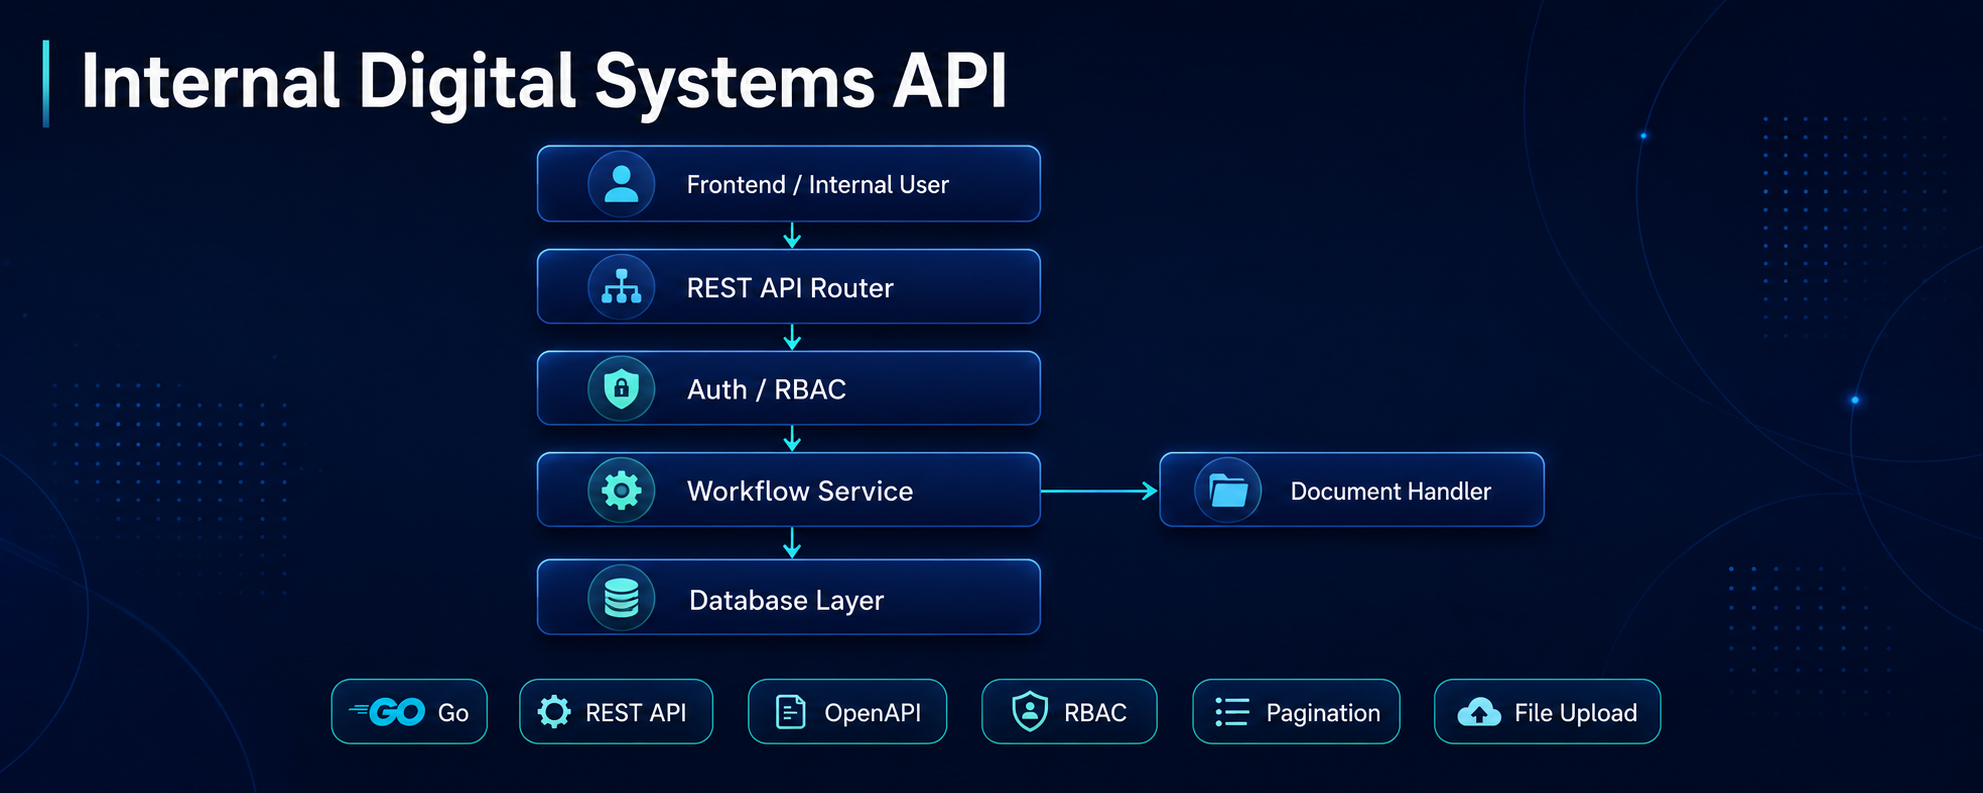
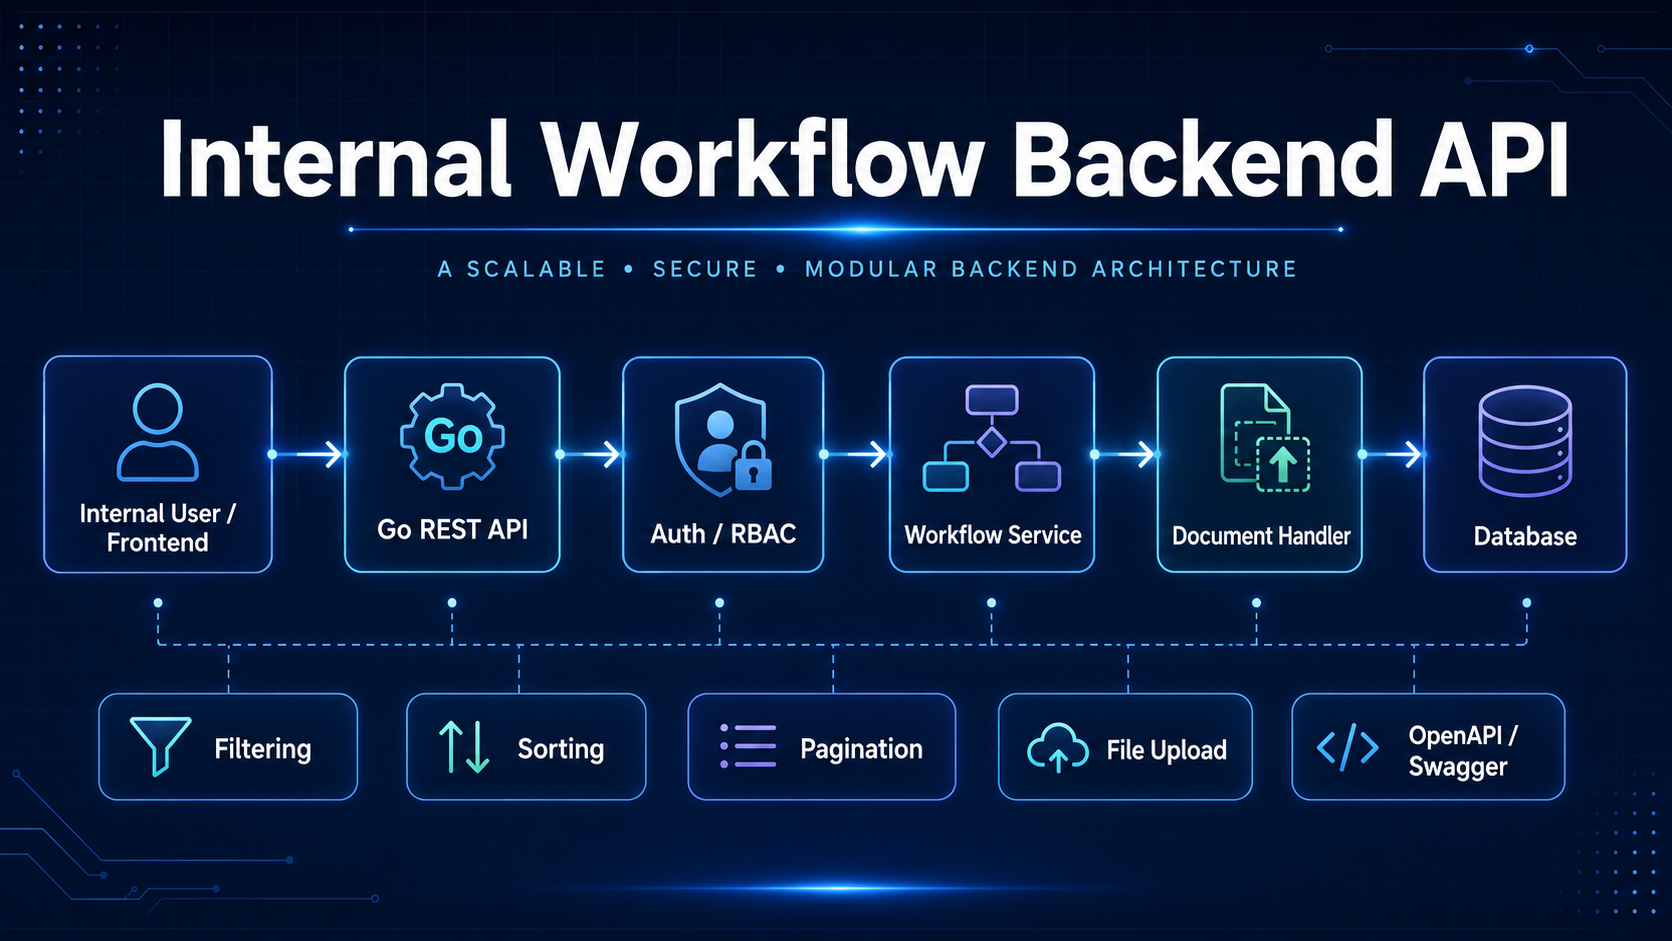
UI/UX audit: fix header overflow, section heights, layout polish (#56)
* fix: correct invalid Tailwind class and heading-order inconsistency

- introduction.component.html: lg:max-width-[550px] -> lg:max-w-[550px]
  (two spots). max-width is not a Tailwind utility prefix; the class
  emitted no CSS, silently killing the hero width cap.
- portfolio.component.html: Other project card titles changed from h4
  to h3 to match the identical Featured cards; fixes heading-order break
  for screen readers.
- docs/product/FEATURE_SPEC.md: add FR-F00H-11..15, FR-F00D-3..4, F00N
  feature block for footer + nav anchors; maps to issues #52-55.

Closes #52

* fix: add focus-visible to social links and remove target=_blank from mailto

- about-me.component.html: all 5 social icon anchors now carry
  focus-visible:outline-2/offset-2 using accent-hover tokens,
  matching the focus-ring pattern on form inputs and app-button.
  Keyboard users can now see focus when tabbing through social links.
- about-me.component.html: remove target="_blank" and rel="noopener noreferrer"
  from the mailto: link; these attributes are correct for https externals
  but spawn a blank tab on mailto: in many browsers.
- contact.component.html: mailto link already had no target="_blank" — no change.
- Contrast audit: pill (#4d4d4d on rgba overlay) passes 5.42:1 min;
  ocean accents (#00e5ff, #80deea on #002030) pass 10.9:1. No token
  changes required.

Closes #53

* refactor: add radius/shadow/swatch tokens and clean up hero widths
[…]

diff --git a/src/app/components/footer/footer.component.spec.ts b/src/app/components/footer/footer.component.spec.ts
@@ -1,0 +1,49 @@
+import { ComponentFixture, TestBed } from '@angular/core/testing';
+import { FooterComponent } from './footer.component';
+import { LanguageService } from '../../services/language.service';
+
+describe('FooterComponent', () => {
+  let component: FooterComponent;
+  let fixture: ComponentFixture<FooterComponent>;
+  let langServiceSpy: jasmine.SpyObj<LanguageService>;
+
+  beforeEach(async () => {
+    langServiceSpy = jasmine.createSpyObj<LanguageService>('LanguageService', ['t']);
+    langServiceSpy.t.and.callFake((key: string) => key);
+
+    await TestBed.configureTestingModule({
+      imports: [FooterComponent],
+      providers: [{ provide: LanguageService, useValue: langServiceSpy }],
+    }).compileComponents();
+
+    fixture = TestBed.createComponent(FooterComponent);
+    component = fixture.componentInstance;
+    fixture.detectChanges();
+  });
+
+  it('should create', () => {
+    expect(component).toBeTruthy();
+  });
+
+  it('should render a <footer> semantic element', () => {
+    const el: HTMLElement = fixture.nativeElement;
+    expect(el.querySelector('footer')).toBeTruthy();
+  });
+
+  it('should call t() for copyright and backToTop keys', () => {
+    expect(langServiceSpy.t).toHaveBeenCalledWith('footer.copyright');
+    expect(langServiceSpy.t).toHaveBeenCalledWith('footer.backToTop');
+  });
+
+  it('should have a back-to-top button with an aria-label', () => {
+    const btn: HTMLButtonElement | null = fixture.nativeElement.querySelector('button');
+    expect(btn).toBeTruthy();
+    expect(btn?.getAttribute('aria-label')).toBeTruthy();
+  });
+
+  it('scrollToTop() should call window.scrollTo', () => {
+    const spy = spyOn(window, 'scrollTo');
+    component.scrollToTop();
+    expect(spy).toHaveBeenCalled();
+  });
+});

diff --git a/src/app/components/header/header.component.html b/src/app/components/header/header.component.html
@@ -75,7 +75,7 @@
           id="hamburger"
           name="hamburger"
           type="button"
-          class="absolute right-4 block lg:hidden"
+          class="absolute right-4 block xl:hidden"
           aria-label="Toggle navigation menu"
           aria-controls="nav-menu"
           [attr.aria-expanded]="isMenuOpen"
@@ -95,10 +95,10 @@
       <nav
         id="nav-menu"
         [attr.aria-hidden]="!isMenuOpen"
-        class="absolute right-4 top-full hidden w-[calc(100vw-2rem)] max-w-[320px] rounded-xl border shadow-xl backdrop-blur-md bg-light-background-primary/95 dark:bg-dark-background-primary/95 border-light-border-primary dark:border-dark-border-primary lg:static lg:block lg:w-auto lg:max-w-none lg:border-0 lg:bg-transparent lg:shadow-none dark:lg:bg-transparent"
+        class="absolute right-4 top-full hidden w-[calc(100vw-2rem)] max-w-[320px] rounded-xl border shadow-xl backdrop-blur-md bg-light-background-primary/95 dark:bg-dark-background-primary/95 border-light-border-primary dark:border-dark-border-primary xl:static xl:block xl:w-auto xl:max-w-none xl:border-0 xl:bg-transparent xl:shadow-none dark:xl:bg-transparent"
       >
         <ul
-          class="block font-mono text-base font-bold lg:flex lg:justify-end lg:gap-[30px]"
+          class="block font-mono text-base font-bold xl:flex xl:justify-end xl:items-center"
         >
           <li class="group">
             <a
@@ -106,7 +106,7 @@
               routerLinkActive #rlaAbout="routerLinkActive"
               [routerLinkActiveOptions]="{exact: true}"
               [attr.aria-current]="rlaAbout.isActive ? 'page' : null"
-              class="group-hover:text-light-accent-primary dark:group-hover:text-dark-accent-primary transition-all mx-8 flex items-center gap-[10px] py-2 duration-300 ease-in-out group-hover:translate-y-[-2px]"
+              class="group-hover:text-light-accent-primary dark:group-hover:text-dark-accent-primary transition-all mx-8 xl:mx-3 flex items-center gap-[10px] py-2 duration-300 ease-in-out group-hover:translate-y-[-2px] whitespace-nowrap"
               ><span
                 class="text-light-accent-hover dark:text-dark-accent-hover font-bold"
                 >01.</span
@@ -115,15 +115,37 @@
           </li>
           <li class="group">
             <a
+              [routerLink]="['/']"
+              [fragment]="'section-experience'"
+              class="group-hover:text-light-accent-primary dark:group-hover:text-dark-accent-primary transition-all mx-8 xl:mx-3 flex items-center gap-[10px] py-2 duration-300 ease-in-out group-hover:translate-y-[-2px] whitespace-nowrap"
+              ><span
+                class="text-light-accent-hover dark:text-dark-accent-hover font-bold"
+                >02.</span
+              >{{ t('nav.experience') }}</a
+            >
+          </li>
+          <li class="group">
+            <a
               routerLink="/portfolio"
               routerLinkActive #rlaPortfolio="routerLinkActive"
               [routerLinkActiveOptions]="{exact: true}"
               [attr.aria-current]="rlaPortfolio.isActive ? 'page' : null"
-              class="group-hover:text-light-accent-primary dark:group-hover:text-dark-accent-primary transition-all mx-8 flex items-center gap-[10px] py-2 duration-300 ease-in-out group-hover:translate-y-[-2px]"
+              class="group-hover:text-light-accent-primary dark:group-hover:text-dark-accent-primary transition-all mx-8 xl:mx-3 flex items-center gap-[10px] py-2 duration-300 ease-in-out group-hover:translate-y-[-2px] whitespace-nowrap"
               ><span
                 class="text-light-accent-hover dark:text-dark-accent-hover font-bold"
-                >02.</span
+                >03.</span
               >{{ t('nav.portfolio') }}</a
+            >
+          </li>
+          <li class="group">
+            <a
+              [routerLink]="['/']"
+              [fragment]="'section-certifications'"
+              class="group-hover:text-light-accent-primary dark:group-hover:text-dark-accent-primary transition-all mx-8 xl:mx-3 flex items-center gap-[10px] py-2 duration-300 ease-in-out group-hover:translate-y-[-2px] whitespace-nowrap"
+              ><span
+                class="text-light-accent-hover dark:text-dark-accent-hover font-bold"
+                >04.</span
+              >{{ t('nav.certifications') }}</a
             >
           </li>
           <li class="group">
@@ -132,15 +154,15 @@
               routerLinkActive #rlaContact="routerLinkActive"
               [routerLinkActiveOptions]="{exact: true}"
               [attr.aria-current]="rlaContact.isActive ? 'page' : null"
-              class="group-hover:text-light-accent-primary dark:group-hover:text-dark-accent-primary transition-all mx-8 flex items-center gap-[10px] py-2 duration-300 ease-in-out group-hover:translate-y-[-2px]"
+              class="group-hover:text-light-accent-primary dark:group-hover:text-dark-accent-primary transition-all mx-8 xl:mx-3 flex items-center gap-[10px] py-2 duration-300 ease-in-out group-hover:translate-y-[-2px] whitespace-nowrap"
               ><span
                 class="text-light-accent-hover dark:text-dark-accent-hover font-bold"
-                >03.</span
+                >05.</span
               >{{ t('nav.contact') }}</a
             >
           </li>
-          <li class="mb-3 mt-3 flex items-start pl-8 lg:mb-0 lg:mt-0 lg:items-center">
-            <div class="flex flex-col items-start gap-3 lg:flex-row lg:items-center lg:gap-4">
+          <li class="mb-3 mt-3 flex items-start pl-8 xl:mb-0 xl:mt-0 xl:items-center">
+            <div class="flex flex-col items-start gap-3 xl:flex-row xl:items-center xl:gap-4">
               <div class="flex items-center">
                 <span class="mr-2 text-sm">{{ t('header.lightLabel') }}</span>
                 <input

diff --git a/src/styles.scss b/src/styles.scss
@@ -42,6 +42,24 @@
   --font-primary: "Open Sans", sans-serif;
   --font-mono: "Roboto Mono", monospace;
 
+  /* Radius */
+  --radius-dropdown: 0.375rem;
+  --radius-card: 0.5rem;
+  --radius-pill: 9999px;
+
+  /* Shadow */
+  --shadow-dropdown: 0 4px 12px rgba(0, 0, 0, 0.15);
+  --shadow-card: 0 2px 8px rgba(0, 0, 0, 0.1);
+
+  /* Swatch colors — one entry per theme × mode; used only by theme-selector swatches.
+     Values must stay in sync with the data-style-theme token blocks below. */
+  --color-swatch-default-light: #1a8a6e;
+  --color-swatch-default-dark: #007bff;
+  --color-swatch-ocean-light: #006f7d;
+  --color-swatch-ocean-dark: #00e5ff;
+  --color-swatch-ember-light: #e64a19;
+  --color-swatch-ember-dark: #ff8a65;
+
   /* Animation */
   --animate-fadein: fadein 0.6s ease-in;
 
@@ -116,6 +134,10 @@ html[data-style-theme='ember'] {
 
 @utility wrapper {
   @apply animate-fadein flex min-h-[100vh] w-full flex-col items-center justify-center;
+}
+
+@utility section-wrapper {
+  @apply animate-fadein flex w-full flex-col items-center justify-center;
 }
 
 @utility big-cursor {

diff --git a/src/app/components/footer/footer.component.ts b/src/app/components/footer/footer.component.ts
@@ -1,0 +1,20 @@
+import { Component, inject } from '@angular/core';
+import { LanguageService } from '../../services/language.service';
+
+@Component({
+  selector: 'app-footer',
+  imports: [],
+  templateUrl: './footer.component.html',
+  styleUrl: './footer.component.scss',
+})
+export class FooterComponent {
+  private langService = inject(LanguageService);
+
+  t(key: string): string {
+    return this.langService.t(key);
+  }
+
+  scrollToTop(): void {
+    window.scrollTo({ top: 0, behavior: 'smooth' });
+  }
+}

diff --git a/src/app/pages/about-me/about-me.component.html b/src/app/pages/about-me/about-me.component.html
@@ -1,6 +1,6 @@
 <div class="wrapper pt-36">
   <div class="container">
-    <div class="mt-[-20px] flex flex-wrap justify-center">
+    <div class="flex flex-wrap justify-center">
       <div class="w-full px-4 lg:w-1/2">
         <p
           id="section-introduction"
@@ -35,7 +35,7 @@
           ></app-button>
         </div>
       </div>
-      <div class="relative mt-10 px-4 lg:right-0 lg:mt-9">
+      <div class="mt-10 px-4 lg:mt-9">
         <img
           src="my-photo.png"
           [alt]="photoAlt"
@@ -52,7 +52,7 @@
             href="https://github.com/MuhammadAlifBudiman"
             target="_blank"
             rel="noopener noreferrer"
-            class="dark:border-dark-accent-primary border-light-accent-primary dark:text-dark-accent-primary text-light-accent-primary dark:hover:border-dark-accent-hover hover:border-light-accent-hover dark:hover:text-dark-accent-hover hover:text-light-accent-hover mr-3 flex h-9 w-9 items-center justify-center rounded-full border"
+            class="dark:border-dark-accent-primary border-light-accent-primary dark:text-dark-accent-primary text-light-accent-primary dark:hover:border-dark-accent-hover hover:border-light-accent-hover dark:hover:text-dark-accent-hover hover:text-light-accent-hover focus-visible:outline-2 focus-visible:outline-offset-2 focus-visible:outline-light-accent-hover dark:focus-visible:outline-dark-accent-hover mr-3 flex h-9 w-9 items-center justify-center rounded-full border"
           >
             <svg
               role="img"
@@ -74,7 +74,7 @@
             href="https://www.linkedin.com/in/muhammad-alif-budiman/"
             target="_blank"
             rel="noopener noreferrer"
-            class="dark:border-dark-accent-primary border-light-accent-primary dark:text-dark-accent-primary text-light-accent-primary dark:hover:border-dark-accent-hover hover:border-light-accent-hover dark:hover:text-dark-accent-hover hover:text-light-accent-hover mr-3 flex h-9 w-9 items-center justify-center rounded-full border"
+            class="dark:border-dark-accent-primary border-light-accent-primary dark:text-dark-accent-primary text-light-accent-primary dark:hover:border-dark-accent-hover hover:border-light-accent-hover dark:hover:text-dark-accent-hover hover:text-light-accent-hover focus-visible:outline-2 focus-visible:outline-offset-2 focus-visible:outline-light-accent-hover dark:focus-visible:outline-dark-accent-hover mr-3 flex h-9 w-9 items-center justify-center rounded-full border"
           >
             <svg
               role="img"
@@ -94,9 +94,7 @@
           <!-- email -->
           <a
             href="mailto:[email redacted]"
-            target="_blank"
-            rel="noopener noreferrer"
-            class="dark:border-dark-accent-primary border-light-accent-primary dark:text-dark-accent-primary text-light-accent-primary dark:hover:border-dark-accent-hover hover:border-light-accent-hover dark:hover:text-dark-accent-hover hover:text-light-accent-hover mr-3 flex h-9 w-9 items-center justify-center rounded-full border"
+            class="dark:border-dark-accent-primary border-light-accent-primary dark:text-dark-accent-primary text-light-accent-primary dark:hover:border-dark-accent-hover hover:border-light-accent-hover dark:hover:text-dark-accent-hover hover:text-light-accent-hover focus-visible:outline-2 focus-visible:outline-offset-2 focus-visible:outline-light-accent-hover dark:focus-visible:outline-dark-accent-hover mr-3 flex h-9 w-9 items-center justify-center rounded-full border"
           >
             <svg
               role="img"
@@ -118,7 +116,7 @@
             href="https://wa.me/6281295837271"
             target="_blank"
             rel="noopener noreferrer"
-            class="dark:border-dark-accent-primary border-light-accent-primary dark:text-dark-accent-primary text-light-accent-primary dark:hover:border-dark-accent-hover hover:border-light-accent-hover dark:hover:text-dark-accent-hover hover:text-light-accent-hover mr-3 flex h-9 w-9 items-center justify-center rounded-full border"
+            class="dark:border-dark-accent-primary border-light-accent-primary dark:text-dark-accent-primary text-light-accent-primary dark:hover:border-dark-accent-hover hover:border-light-accent-hover dark:hover:text-dark-accent-hover hover:text-light-accent-hover focus-visible:outline-2 focus-visible:outline-offset-2 focus-visible:outline-light-accent-hover dark:focus-visible:outline-dark-accent-hover mr-3 flex h-9 w-9 items-center justify-center rounded-full border"
           >
             <svg
               role="img"
@@ -141,7 +139,7 @@
             href="https://www.instagram.com/m_alif_b/"
             target="_blank"
             rel="noopener noreferrer"
-            class="dark:border-dark-accent-primary border-light-accent-primary dark:text-dark-accent-primary text-light-accent-primary dark:hover:border-dark-accent-hover hover:border-light-accent-hover dark:hover:text-dark-accent-hover hover:text-light-accent-hover mr-3 flex h-9 w-9 items-center justify-center rounded-full border"
+            class="dark:border-dark-accent-primary border-light-accent-primary dark:text-dark-accent-primary text-light-accent-primary dark:hover:border-dark-accent-hover hover:border-light-accent-hover dark:hover:text-dark-accent-hover hover:text-light-accent-hover focus-visible:outline-2 focus-visible:outline-offset-2 focus-visible:outline-light-accent-hover dark:focus-visible:outline-dark-accent-hover mr-3 flex h-9 w-9 items-center justify-center rounded-full border"
           >
             <svg
               role="img"

diff --git a/src/app/components/footer/footer.component.html b/src/app/components/footer/footer.component.html
@@ -1,0 +1,15 @@
+<footer
+  class="dark:border-dark-border-primary border-light-border-primary dark:text-dark-text-secondary text-light-text-secondary w-full border-t py-6 font-mono text-sm"
+>
+  <div class="container flex flex-col items-center justify-between gap-4 px-4 sm:flex-row">
+    <p>{{ t('footer.copyright') }}</p>
+    <button
+      type="button"
+      (click)="scrollToTop()"
+      class="dark:text-dark-accent-hover text-light-accent-hover dark:hover:text-dark-accent-primary hover:text-light-accent-primary focus-visible:outline-2 focus-visible:outline-offset-2 focus-visible:outline-light-accent-hover dark:focus-visible:outline-dark-accent-hover transition-colors duration-200"
+      [attr.aria-label]="t('footer.backToTop')"
+    >
+      {{ t('footer.backToTop') }} ↑
+    </button>
+  </div>
+</footer>

diff --git a/src/app/components/theme-selector/theme-selector.component.scss b/src/app/components/theme-selector/theme-selector.component.scss
@@ -29,7 +29,7 @@
   display: flex;
   align-items: center;
   gap: 0.25rem;
-  border-radius: 0.375rem;
+  border-radius: var(--radius-dropdown);
   padding: 0.25rem 0.5rem;
   background: transparent;
   transition: border-color 0.2s, box-shadow 0.2s;
@@ -60,8 +60,8 @@
   margin-top: 0.25rem;
   z-index: 99999;
   min-width: 100%;
-  border-radius: 0.375rem;
-  box-shadow: 0 4px 12px rgba(0, 0, 0, 0.15);
+  border-radius: var(--radius-dropdown);
+  box-shadow: var(--shadow-dropdown);
   padding: 0.25rem 0;
   list-style: none;
   margin-left: 0;
@@ -99,6 +99,6 @@
   border-radius: 9999px;
   flex-shrink: 0;
 }
-.theme-option__swatch--default { background: #4ecba3; @apply dark:bg-[#007bff]; }
-.theme-option__swatch--ocean   { background: #0097a7; @apply dark:bg-[#00e5ff]; }
-.theme-option__swatch--ember   { background: #e64a19; @apply dark:bg-[#ff8a65]; }
+.theme-option__swatch--default { background: var(--color-swatch-default-light); @apply dark:bg-swatch-default-dark; }
+.theme-option__swatch--ocean   { background: var(--color-swatch-ocean-light);   @apply dark:bg-swatch-ocean-dark; }
+.theme-option__swatch--ember   { background: var(--color-swatch-ember-light);   @apply dark:bg-swatch-ember-dark; }

diff --git a/src/app/app.config.ts b/src/app/app.config.ts
@@ -1,8 +1,14 @@
 import { ApplicationConfig, provideZoneChangeDetection } from '@angular/core';
-import { provideRouter } from '@angular/router';
+import { provideRouter, withInMemoryScrolling } from '@angular/router';
 
 import { routes } from './app.routes';
 
 export const appConfig: ApplicationConfig = {
-  providers: [provideZoneChangeDetection({ eventCoalescing: true }), provideRouter(routes)]
+  providers: [
+    provideZoneChangeDetection({ eventCoalescing: true }),
+    provideRouter(
+      routes,
+      withInMemoryScrolling({ anchorScrolling: 'enabled', scrollPositionRestoration: 'enabled' }),
+    ),
+  ],
 };

diff --git a/src/app/pages/introduction/introduction.component.html b/src/app/pages/introduction/introduction.component.html
@@ -1,23 +1,23 @@
 <div class="wrapper pt-36">
   <div class="container flex justify-center px-4">
-    <div class="w-full lg:w-[40vh] lg:min-w-[700px]">
+    <div class="w-full lg:min-w-[700px]">
       <p
-        class="dark:text-dark-accent-hover text-light-accent-hover lg:max-width-[550px] mb-1.5 font-mono text-base md:text-xl"
+        class="dark:text-dark-accent-hover text-light-accent-hover lg:max-w-[550px] mb-1.5 font-mono text-base md:text-xl"
       >
         {{ greetingText }}
       </p>
       <h1
-        class="dark:text-dark-text-primary text-light-text-primary mb-1.5 text-3xl font-bold md:text-4xl lg:min-w-[610px] lg:text-6xl"
+        class="dark:text-dark-text-primary text-light-text-primary mb-1.5 text-3xl font-bold md:text-4xl lg:text-6xl"
       >
         {{ fullName }}
       </h1>
       <h2
-        class="dark:text-dark-text-secondary text-light-text-secondary mb-1.5 text-3xl font-bold md:text-4xl lg:w-[40vh] lg:min-w-[700px] lg:text-6xl"
+        class="dark:text-dark-text-secondary text-light-text-secondary mb-1.5 text-3xl font-bold md:text-4xl lg:text-6xl"
         id="my-role"
       >
         {{ roleText }}
       </h2>
-      <p class="lg:max-width-[550px] mb-1.5 mt-4">
+      <p class="lg:max-w-[550px] mb-1.5 mt-4">
         {{ introductionText }}
       </p>
       <app-button

diff --git a/src/app/i18n/en.ts b/src/app/i18n/en.ts
@@ -3,8 +3,14 @@ import { Translation } from '../models/language.model';
 export const EN: Translation = {
   nav: {
     aboutMe: 'About Me',
+    experience: 'Experience',
     portfolio: 'Portfolio',
+    certifications: 'Certifications',
     contact: 'Contact',
+  },
+  footer: {
+    copyright: '© 2025 Muhammad Alif Budiman',
+    backToTop: 'Back to top',
   },
   header: {
     lightLabel: 'light',

diff --git a/src/app/i18n/id.ts b/src/app/i18n/id.ts
@@ -3,8 +3,14 @@ import { PartialTranslation } from '../models/language.model';
 export const ID: PartialTranslation = {
   nav: {
     aboutMe: 'Tentang Saya',
+    experience: 'Pengalaman',
     portfolio: 'Portofolio',
+    certifications: 'Sertifikasi',
     contact: 'Kontak',
+  },
+  footer: {
+    copyright: '© 2025 Muhammad Alif Budiman',
+    backToTop: 'Kembali ke atas',
   },
   header: {
     lightLabel: 'terang',

diff --git a/src/app/models/language.model.ts b/src/app/models/language.model.ts
@@ -21,8 +21,14 @@ export interface ProjectTranslation {
 export interface Translation {
   nav: {
     aboutMe: string;
+    experience: string;
     portfolio: string;
+    certifications: string;
     contact: string;
+  };
+  footer: {
+    copyright: string;
+    backToTop: string;
   };
   header: {
     lightLabel: string;